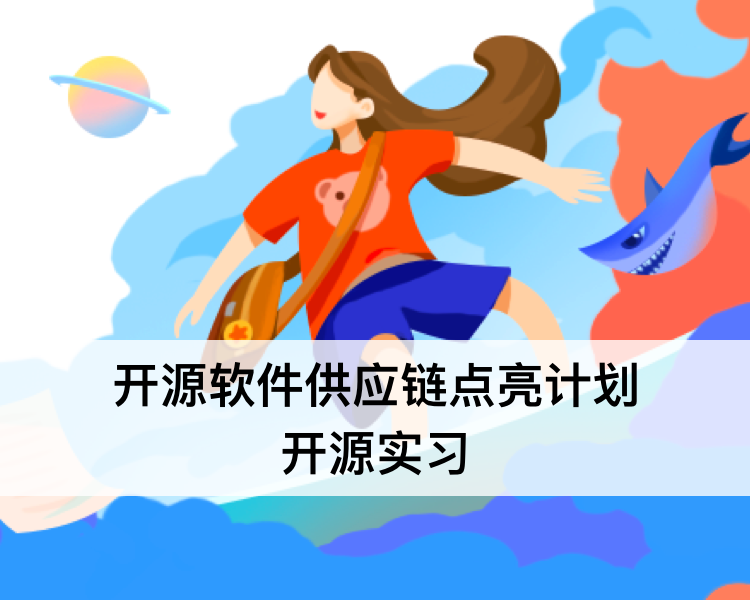
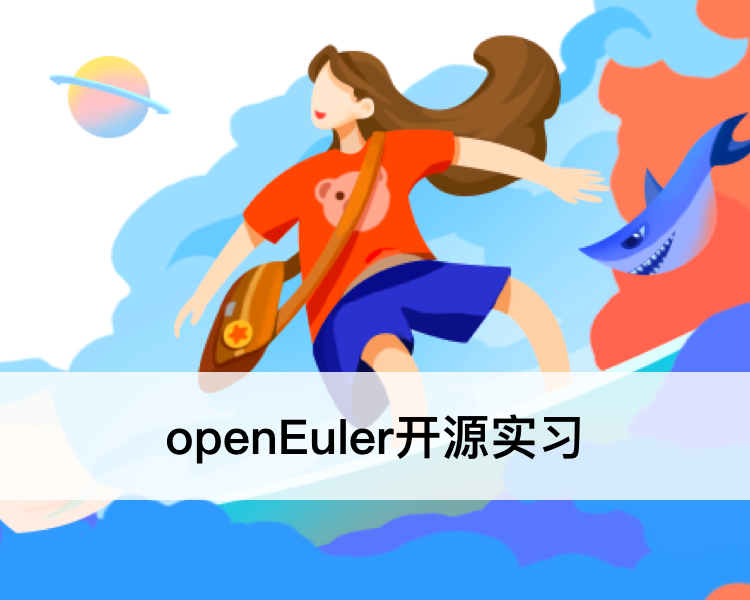
开源实习banner替换+文字修改
开源实习banner替换+文字修改

Changed region(s): [[0.0, 0.54, 1.0, 0.84]]

diff --git a/web-ui/docs/.vuepress/components/internship/internship.vue b/web-ui/docs/.vuepress/components/internship/internship.vue
@@ -1,7 +1,7 @@
 <template>
   <div class="internship">
     <titlenav
-     class="titlenav"
+      class="titlenav"
       v-show="isShowNav"
       :currentIndex="activeIndex"
       :dataList="navList"
@@ -26,7 +26,7 @@
         <div class="intership-introduce" id="introduce">
           <p>
             openEuler开源实习是openEuler社区和社区合作单位共同发起的线上实习项目，旨在鼓励在校学生积极参与开源社区，在实际的开源环境中提升实践能力。
-            由openEuler社区提供实习任务，并提供导师辅导，学生通过实习申请后，可在社区领取任务，每完成一个任务可活动相应积分，积分累计达规定量后，可获得实习证书和实习工资。
+            由openEuler社区提供实习任务，并提供导师辅导，学生通过实习申请后，可在社区领取任务，每完成一个任务可获得相应积分，积分累计达规定量后，可获得实习证书和实习工资。
           </p>
         </div>
         <div class="step" id="step">
@@ -37,13 +37,14 @@
             <div class="step-nav" v-if="!isShowH5">
               <div
                 class="step-bar"
-                ref="stepBar"
                 :class="{ stepActive: index == stepActive }"
                 v-for="(item, index) in step.stepNav"
                 :style="`background:url(${item.IMG}) no-repeat;`"
                 :key="item.IMG"
-                @click="stepChange(index, $event)"
-              ></div>
+                @click="stepChange(index)"
+              >
+                <img :src="item.ACTIVE" alt="" />
+              </div>
             </div>
             <div class="step-body">
               <div class="step-text" v-show="stepActive === 0 || isShowH5">
@@ -92,8 +93,8 @@
                   <p>（1）在Gitee查看任务，找到你想做的任务issue。</p>
                   <p>
                     （2）在任务issue下方评论区输入
-                    <span class="blue">/intern-assign</span
-                    > 命令，认领该任务，然后发送邮件给任务导师请求审核。邮件需包括你的简历和该任务的开发方案。
+                    <span class="blue">/intern-assign</span>
+                    命令，认领该任务，然后发送邮件给任务导师请求审核。邮件需包括你的简历和该任务的开发方案。
                   </p>
                   <p>
                     （3）导师收到邮件后对申请人进行评审，在该任务issue评论下通过输入命令反馈结果，<span
@@ -110,7 +111,8 @@
                     （4）如果领取后无法完成，可通过在issue下输入<span
                       class="blue"
                       >/intern-unassign</span
-                    > 放弃任务。<span class="orange"
+                    >
+                    放弃任务。<span class="orange"
                       >放弃超过3次，账号被限制一个月不能领取任务。</span
                     >
                   </p>
@@ -120,8 +122,8 @@
                       每个任务只能有一个人认领，每人一次最多只能有2个认领中的任务。
                     </p>
                     <p>
-                      输入<span class="blue">/intern-assign</span
-                      > 命令后两周内没有发简历和方案给导师的，认领自动失效，任务被释放。
+                      输入<span class="blue">/intern-assign</span>
+                      命令后两周内没有发简历和方案给导师的，认领自动失效，任务被释放。
                     </p>
                     <a
                       href="https://openeuler-website-beijing.obs.cn-north-4.myhuaweicloud.com/%E5%BC%80%E6%BA%90%E5%AE%9E%E4%B9%A0%E8%B5%84%E6%96%99%E4%B8%8B%E8%BD%BD/02%20%E4%BB%BB%E5%8A%A1%E8%AE%A4%E9%A2%86%E9%82%AE%E4%BB%B6%E6%A8%A1%E6%9D%BF.rar"
@@ -149,8 +151,8 @@
                     >（务必添加，否则无法积分）；
                   </p>
                   <p>
-                    （2）提交pr后在任务issue评论区输入 <span class="blue"
-                      >/intern-completed </span
+                    （2）提交pr后在任务issue评论区输入
+                    <span class="blue">/intern-completed </span
                     >命令，表示当前任务已提交，然后等待审核。
                   </p>
                   <p>
@@ -160,9 +162,8 @@
                   <div class="attention black">
                     <div class="attention-title">注意</div>
                     <p>
-                      导师有不通过任务成果的权利，如学生提交的PR离实际所需太远，或未按时提交PR，可选择输入命令 <span
-                        class="blue"
-                        >/intern-fail</span
+                      导师有不通过任务成果的权利，如学生提交的PR离实际所需太远，或未按时提交PR，可选择输入命令
+                      <span class="blue">/intern-fail</span
                       >，不通过该任务，则无积分。
                     </p>
                   </div>
@@ -188,7 +189,7 @@
                   <p>
                     （1）在实习合同里约定的6个月期限内，学生可凭积分获得实习工资。
                   </p>
-                  <div class="attention">
+                  <div class="attention firstAttention">
                     <p v-for="item in step.stepFour.pText" :key="item">
                       {{ item }}
                     </p>
@@ -202,7 +203,9 @@
                   </p>
                   <div class="attention black">
                     <div class="attention-title">注意</div>
-                    <p>证书开具后视为实习结束，不再计算实习工资。</p>
+                    <p v-for="item in step.stepFour.attentionText" :key="item">
+                      {{ item }}
+                    </p>
                     <a
                       href="https://openeuler-website-beijing.obs.cn-north-4.myhuaweicloud.com/%E5%BC%80%E6%BA%90%E5%AE%9E%E4%B9%A0%E8%B5%84%E6%96%99%E4%B8%8B%E8%BD%BD/03%20%E8%AF%81%E4%B9%A6%E7%94%B3%E8%AF%B7%E6%9D%90%E6%96%99%E5%92%8C%E9%82%AE%E4%BB%B6%E6%A8%A1%E6%9D%BF.rar"
                       download
@@ -442,19 +445,23 @@ export default {
       step: {
         stepNav: [
           {
-            IMG: "/img/internship/step_1active.png",
+            IMG: "/img/internship/step_1.png",
+            ACTIVE: "/img/internship/step_1active.png",
             TEXT: "申请实习",
           },
           {
             IMG: "/img/internship/step_2.png",
+            ACTIVE: "/img/internship/step_2active.png",
             TEXT: "领取任务",
           },
           {
             IMG: "/img/internship/step_3.png",
+            ACTIVE: "/img/internship/step_3active.png",
             TEXT: "提交任务",
           },
           {
             IMG: "/img/internship/step_4.png",
+            ACTIVE: "/img/internship/step_4active.png",
             TEXT: "工资与证书发放",
           },
         ],
@@ -474,7 +481,11 @@ export default {
             "满60分可获得工资总计4000元；",
             "满80分可获得工资总计6000元；",
             "满100分可获得工资总计8000元；",
-            "每个月月初结算上一个月的积分，在月底发放上个月满足相应积分条件的实习工资。",
+          ],
+          attentionText: [
+            "以上工资金额为总计金额，每月月初按上月积分结算一次应发工资，在月底发放到实习生账户。应发工资为达到相应积分标准的总计工资金额减去已结算金额。",
+            "总计100分为工资结算上限。超过100分不再计算工资，可选择结束实习，或继续贡献社区，满150分可获得“开源之星”荣誉。",
+            "证书开具后视为实习结束，不再计算实习工资。",
           ],
         },
       },
@@ -485,8 +496,7 @@ export default {
             "https://www.openeuler.org/zh/sig/sig-list/sig-detail.html?id=10&name=Kernel",
           INTRODUCE: "openEuler社区维护的Linux 内核",
           TASK: "https://gitee.com/organizations/openeuler/issues?assignee_id=&author_id=&branch=&collaborator_ids=&issue_search=&label_ids=124590412&label_text=&milestone_id=&priority=&private_issue=&program_id=&project_id=&project_type=&scope=&sort=default&state=open&target_project",
-          GITEE:
-            "https://gitee.com/openeuler/community/tree/master/sig/Kernel",
+          GITEE: "https://gitee.com/openeuler/community/tree/master/sig/Kernel",
         },
         {
           NAME: "sig-QA",
@@ -514,23 +524,14 @@ export default {
           GITEE: "https://gitee.com/openeuler/community/tree/master/sig/A-Tune",
         },
         {
-          NAME: "sig-UKUI",
+          NAME: "sig-KIRAN-DESKTOP",
           NAME_LINK:
-            "https://www.openeuler.org/zh/sig/sig-list/sig-detail.html?id=46&name=sig-UKUI",
+            "https://www.openeuler.org/zh/sig/sig-list/sig-detail.html?id=37&name=sig-KIRAN-DESKTOP&mail=dev%40openeuler.org",
           INTRODUCE:
-            "负责在openEuler上提供UKUI桌面环境，及相关软件包的规划、维护和升级",
-          TASK: "",
+            "麒麟信安自主研发，致力于为用户提供更加美观，高效和易用的Linux桌面操作系统",
+          TASK: "https://gitee.com/organizations/openeuler/issues?assignee_id=&author_id=&branch=&collaborator_ids=&issue_search=&label_ids=124590528&label_text=&milestone_id=&priority=&private_issue=&program_id=&project_id=&project_type=&scope=&sort=default&state=open&target_project=",
           GITEE:
-            "https://gitee.com/openeuler/community/tree/master/sig/sig-UKUI",
-        },
-        {
-          NAME: "sig-HA",
-          NAME_LINK:
-            "https://www.openeuler.org/zh/sig/sig-list/sig-detail.html?id=35&name=sig-Ha",
-          INTRODUCE:
-            "致力于HA软件在openEuler社区中的应用与推广，提升业务的高可用",
-          TASK: "",
-          GITEE: "https://gitee.com/openeuler/community/tree/master/sig/sig-Ha",
+            "https://gitee.com/openeuler/community/tree/master/sig/sig-KIRAN-DESKTOP",
         },
         {
           NAME: "sig-ops",
@@ -560,9 +561,17 @@ export default {
           TASK: "https://gitee.com/organizations/openeuler/issues?assignee_id=&author_id=&branch=&collaborator_ids=&issue_search=&label_ids=124590388&label_text=&milestone_id=&priority=&private_issue=&program_id=&project_id=&project_type=&scope=&sort=default&state=open&target_project=",
           GITEE: "https://gitee.com/openeuler/community/tree/master/sig/G11N",
         },
+         {
+          NAME: "其他",
+          // NAME_LINK:
+          //   "https://www.openeuler.org/zh/sig/sig-list/sig-detail.html?id=35&name=sig-Ha",
+          INTRODUCE:
+            "一些暂不属于任何SIG的任务",
+          TASK: "https://gitee.com/openeuler-competition/opensource-internship/issues?assignee_id=&author_id=&branch=&collaborator_ids=&issue_search=&label_ids=125884711&label_text=&milestone_id=&priority=&private_issue=&program_id=&project_id=openeuler-competition%2Fopensource-internship&project_type=&scope=&sort=&state=open&target_project= ",
+          // GITEE: "https://gitee.com/openeuler/community/tree/master/sig/sig-Ha",
+        },
         {
           INTRODUCE: "更多SIG任务，敬请期待",
-         
         },
       ],
       integral: {
@@ -650,15 +659,7 @@ export default {
       }
       this.isExent = !this.isExent;
     },
-    stepChange(index, e) {
-      for (let i = 0; i < this.$refs.stepBar.length; i++) {
-        this.$refs.stepBar[i].style = `background:url(/img/internship/step_${
-          i + 1
-        }.png`;
-      }
-      e.target.style = `background:url(/img/internship/step_${
-        index + 1
-      }active.png)`;
+    stepChange(index) {
       this.stepActive = index;
     },
     go(path) {
@@ -835,10 +836,17 @@ a {
             width: 280px;
             height: 160px;
             background-size: 100% 100% !important;
+            img {
+              display: none;
+              width: 100%;
+              margin-top: -20px;
+              height: 180px;
+            }
           }
           .stepActive {
-            margin-top: -20px;
-            height: 180px;
+            img {
+              display: block;
+            }
           }
         }
         .step-body {
@@ -884,12 +892,15 @@ a {
               color: #000000;
               line-height: 24px;
             }
-
+            
             .download {
               display: block;
               margin-top: 10px;
             }
           }
+          .firstAttention {
+              margin-top: 0;
+            }
           .black {
             p {
               position: relative;
@@ -1033,8 +1044,14 @@ a {
         .item:nth-child(4n) {
           margin-right: 0;
         }
-        .item:nth-child( n + 9 ) {
+        .item:nth-child(n + 9) {
           margin-bottom: 0;
+          .button-box {
+            height: 40px;
+          }
+          .button-right {
+            display: none;
+          }
         }
         .item:last-child {
           margin: 0;
@@ -1052,7 +1069,6 @@ a {
             font-size: 20px;
             color: #000000;
           }
-
         }
         .item:hover {
           box-shadow: 0px 6px 30px 0px rgba(0, 0, 0, 0.3);
